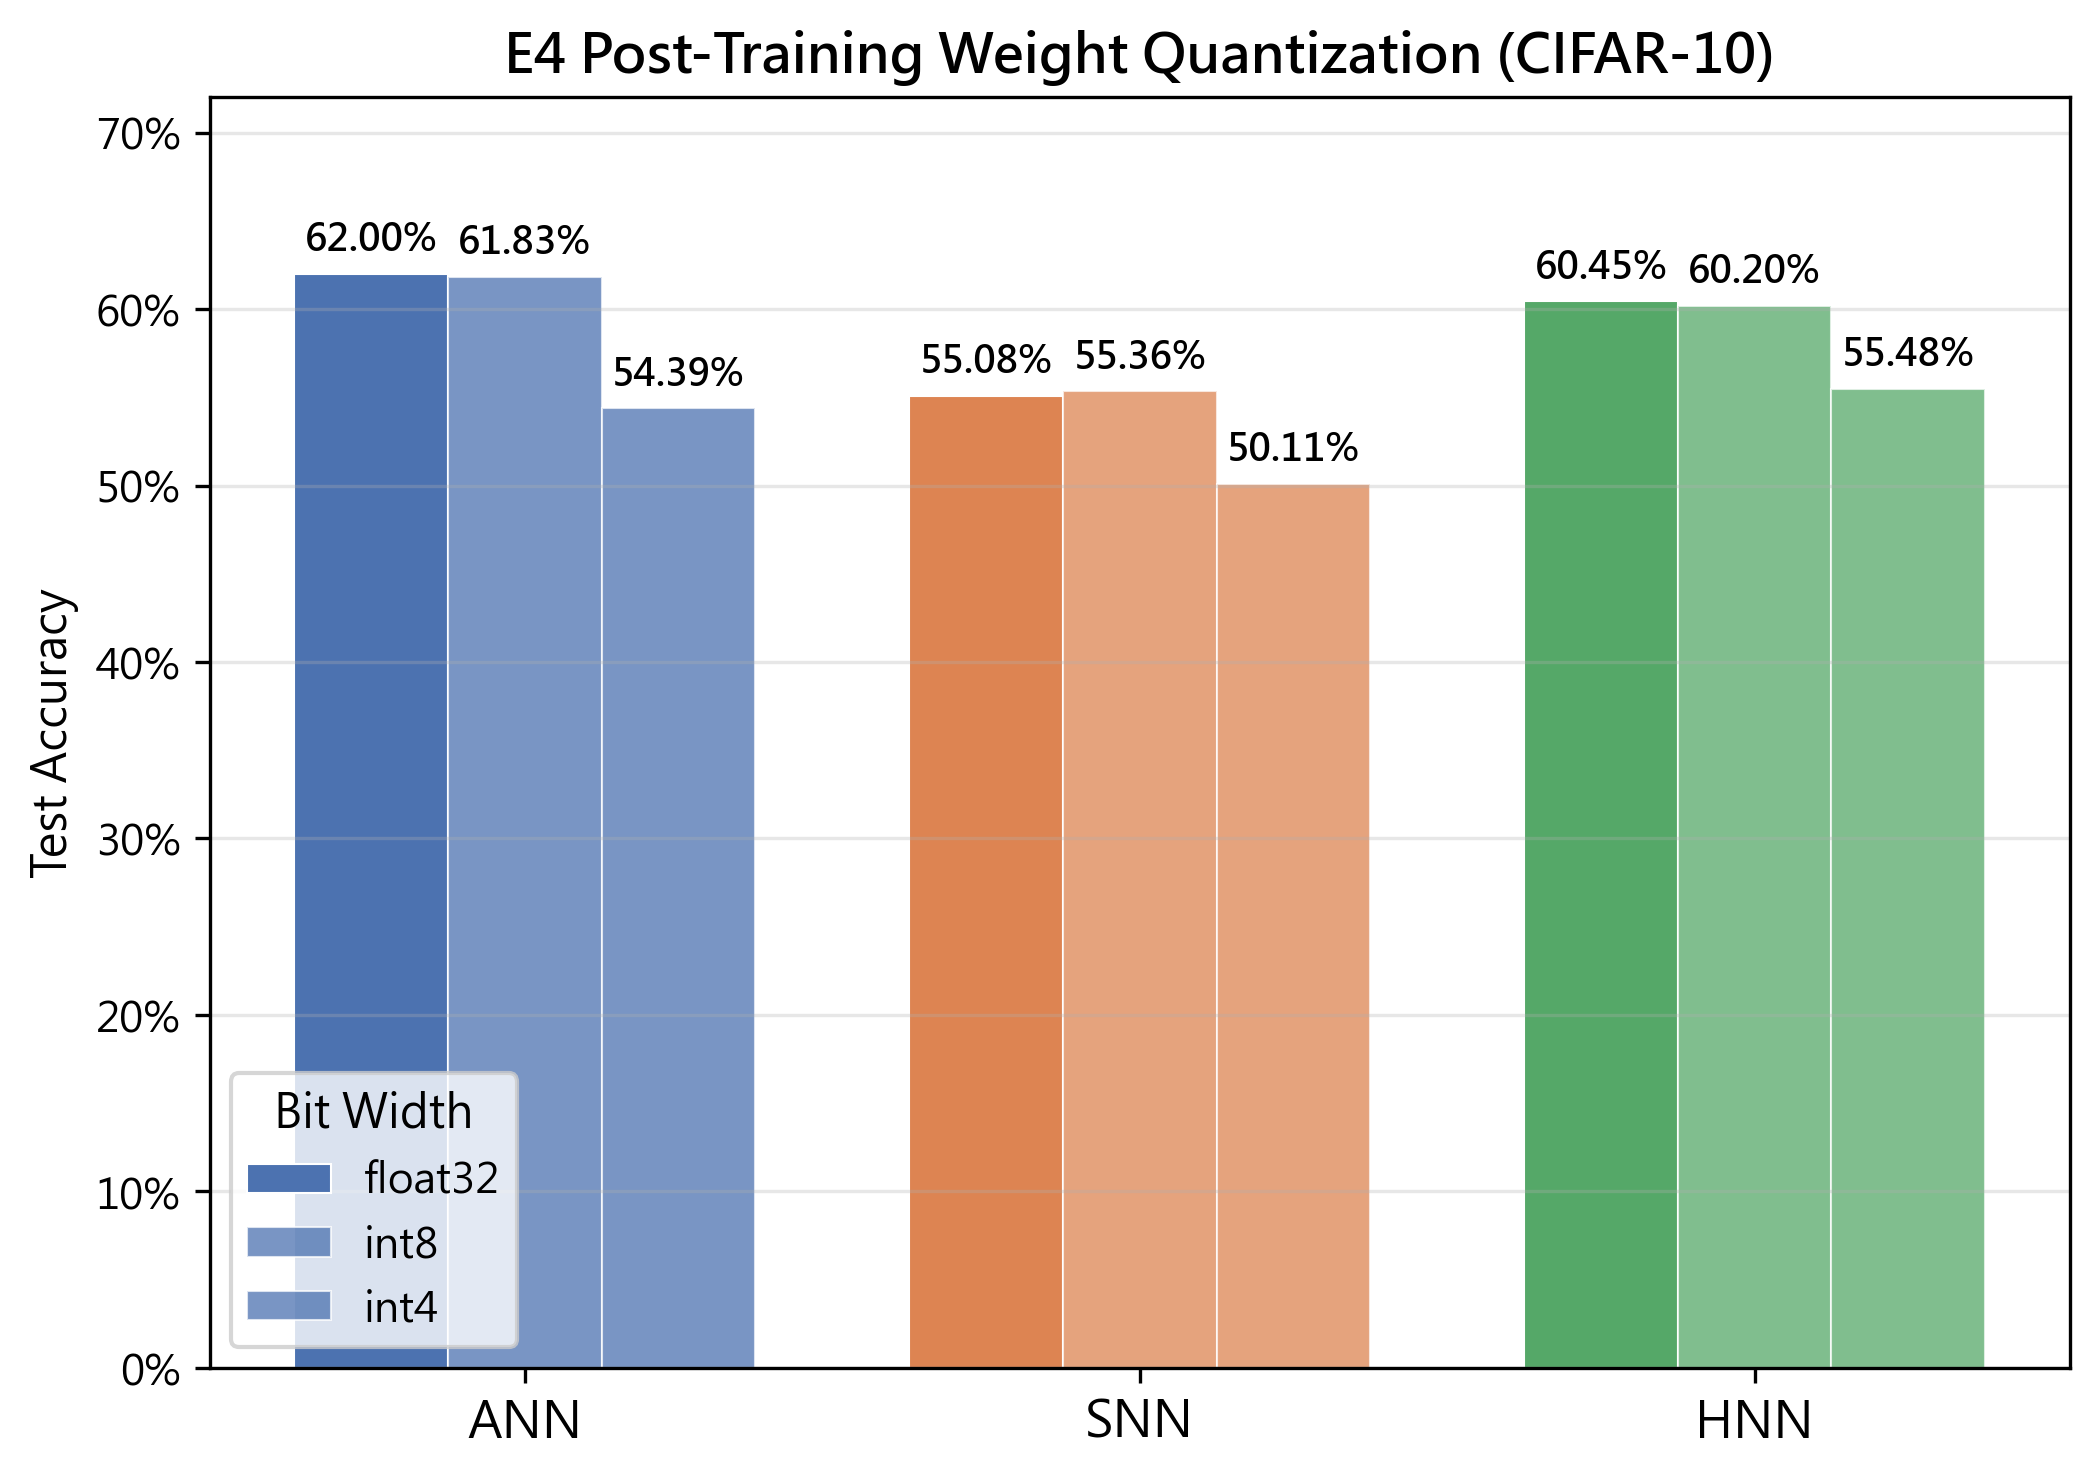
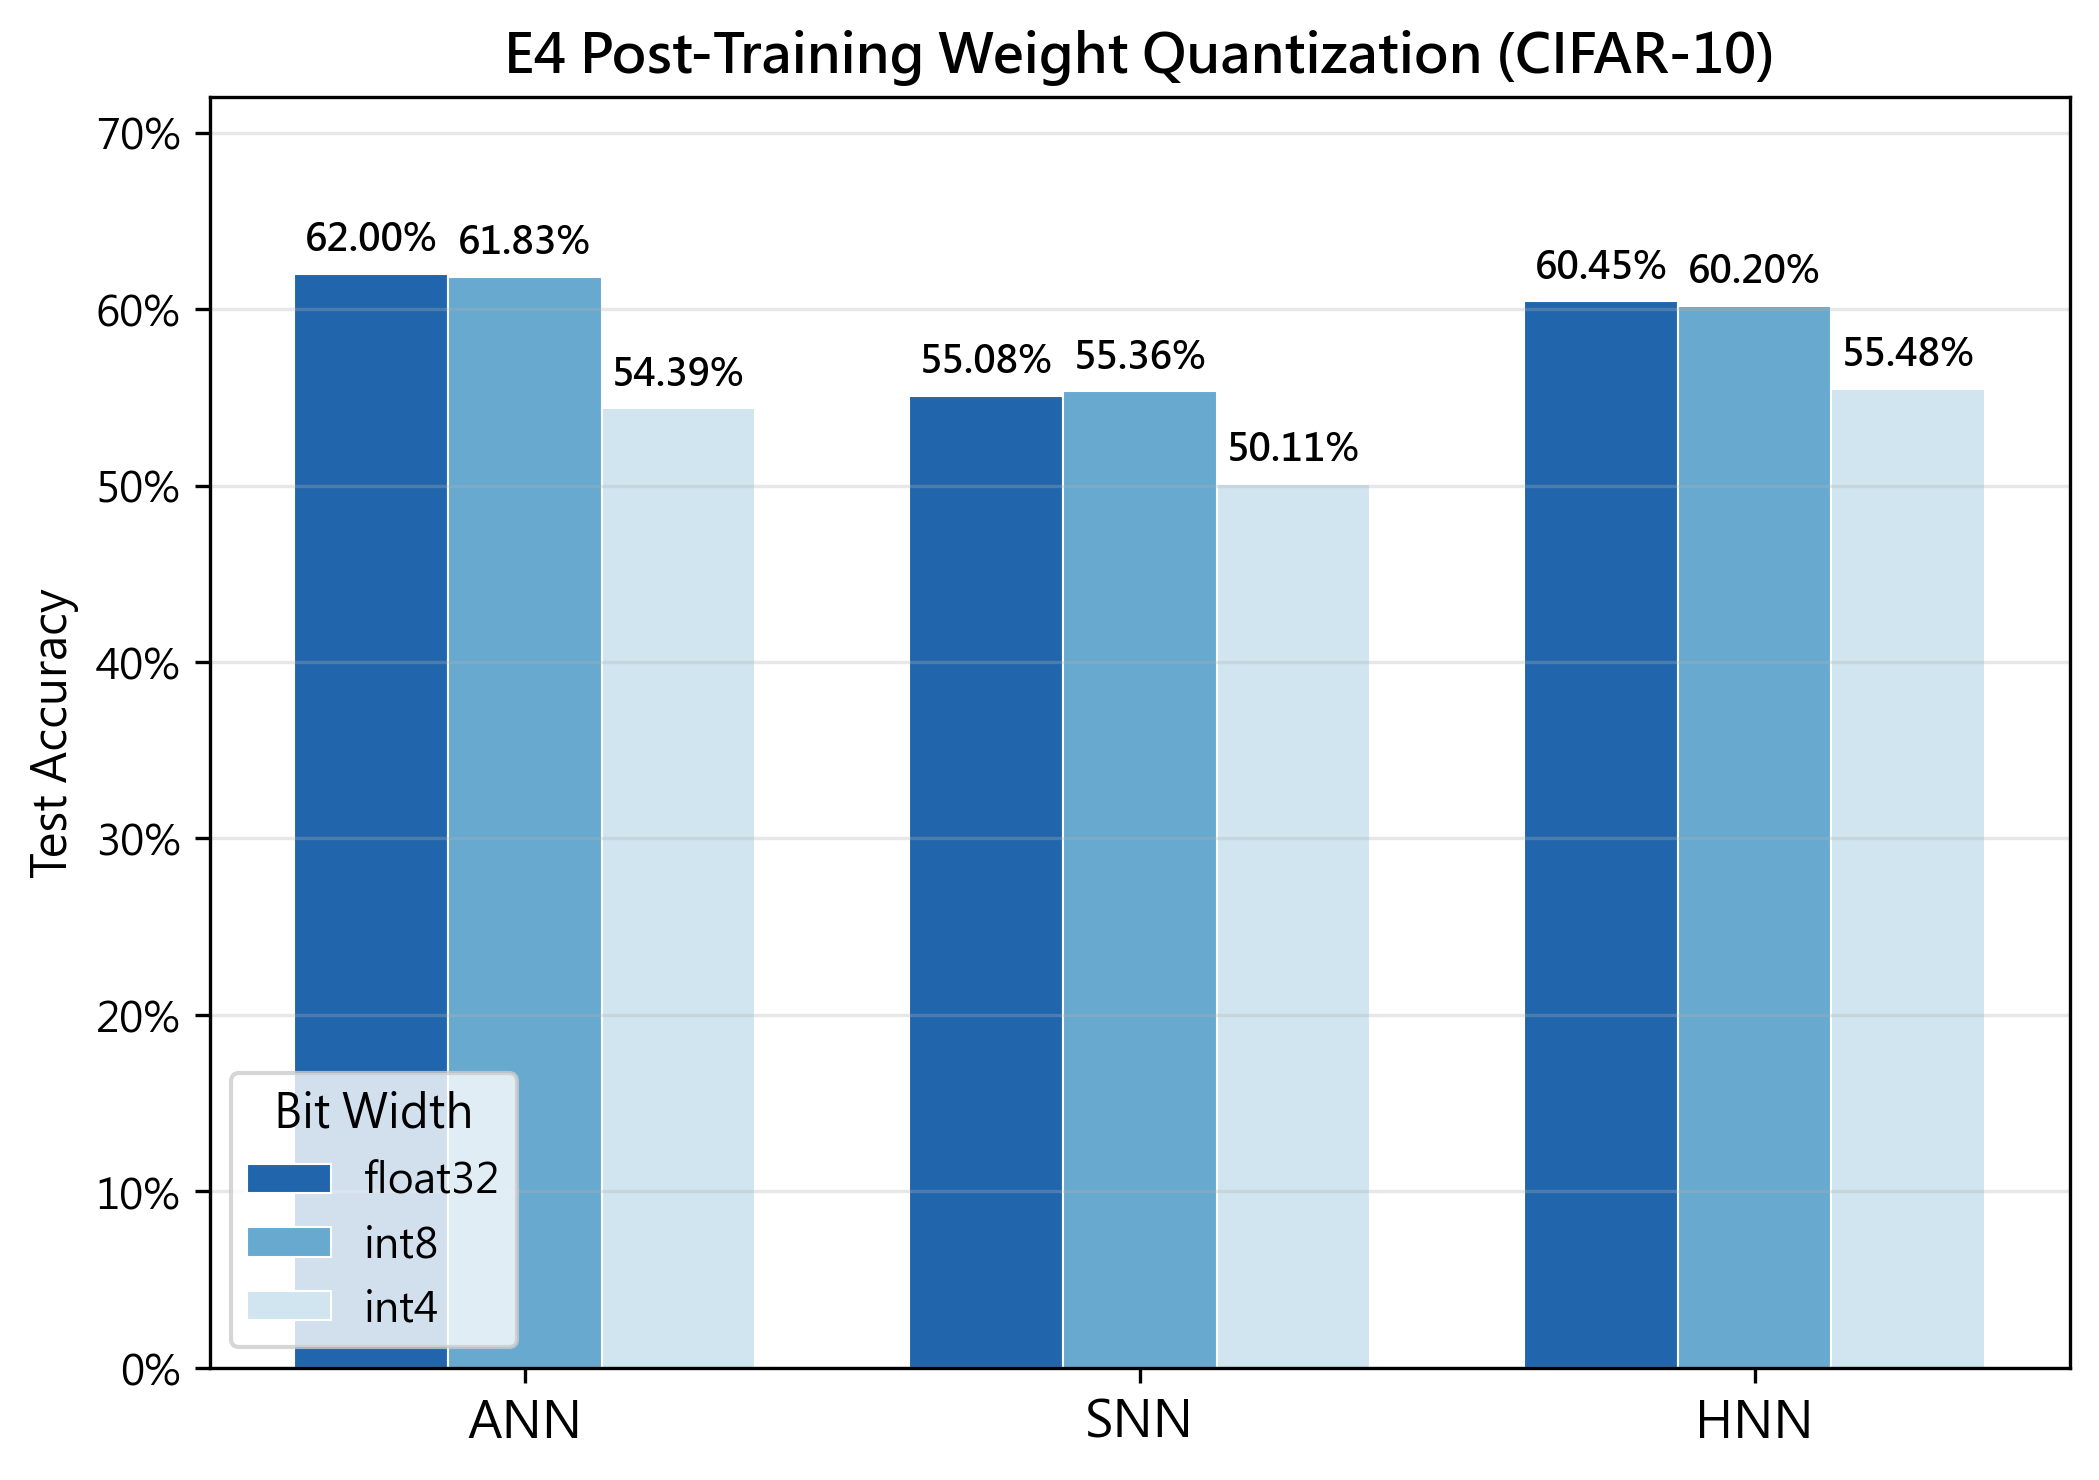
fix fig9 quantization colors and legend

diff --git a/scripts/make_figures.py b/scripts/make_figures.py
@@ -529,14 +529,14 @@ def fig_e4_quantization():
     x = np.arange(len(labels))
     w = 0.25
     bits = ["float32", "int8", "int4"]
-    colors = ["#4C72B0", "#DD8452", "#55A868"]
+    # sequential dark→light to show degradation as bit width decreases
+    bit_colors = ["#2166AC", "#67A9CF", "#D1E5F0"]
 
     fig, ax = plt.subplots(figsize=(8, 5.5))
     for i, bit in enumerate(bits):
         vals = [quant_data[m][bit] for m in labels]
         bars = ax.bar(x + (i - 1) * w, vals, w, label=bit,
-                      color=colors, edgecolor="white", linewidth=0.5,
-                      alpha=1.0 if i == 0 else 0.75)
+                      color=bit_colors[i], edgecolor="white", linewidth=0.5)
         for bar, val in zip(bars, vals):
             ax.text(bar.get_x() + bar.get_width()/2, bar.get_height() + 0.008,
                     f"{val:.2%}", ha="center", va="bottom", fontsize=9, fontweight="bold")